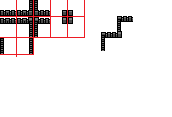
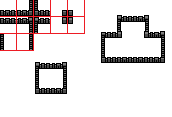
diagonal engagements and supports added to battle - reasonably stable

diff --git a/source/entities/unit_state.py b/source/entities/unit_state.py
@@ -1,4 +1,5 @@
 from ..battle.actions import *
+from random import choice
 
 
 class UnitState(object):
@@ -28,12 +29,60 @@ class UnitState(object):
         self.engagements = None
 
     def check_melee_target(self, troop):
+
+        impedeing = self.check_impedeing_target(troop)
+        if impedeing is not None:
+            return impedeing, 'orth'
+
+        diagonal = self.check_diagonal_target(troop)
+
+        return diagonal, 'diag'
+
+    def check_impedeing_target(self, troop):
         row = troop.location
         target_coord = self.get_impeding_coord(troop, row)
         for t in row.troops:
             if t.coord.get == target_coord and t.side != troop.side:
                 return t
         return None
+
+    def check_diagonal_target(self, troop):
+        if troop.type == 'chariot':
+            return None
+
+        adj_rows = self.battlefield.get_adj_rows(troop.location.field_y)
+        targets = []
+        for row in adj_rows:
+            target_coord = self.get_impeding_coord(troop, row)
+            for target in row.troops:
+                if target.coord.get == target_coord and target.side != troop.side:
+                    targets.append(target)
+
+        if not targets:
+            return None
+        if len(targets) == 1:
+            return targets[0]
+
+        return self.get_preferred_target(targets)
+
+    @staticmethod
+    def get_preferred_target(targets):
+
+        engaged = []
+        supporting = []
+        free = []
+
+        for t in targets:
+            if t.state.name == 'engage':
+                engaged.append(t)
+            elif t.state.name == 'support':
+                supporting.append(t)
+            else:
+                free.append(t)
+
+        for l in [free, supporting, engaged]:
+            if l:  # list has members
+                return choice(l)
 
     def check_range_target(self, troop):
         fire_range = troop.get_fire_range()
@@ -49,7 +98,8 @@ class UnitState(object):
                 pass
         return None
 
-    def get_impeding_coord(self, troop, row):
+    @staticmethod
+    def get_impeding_coord(troop, row):
         d = troop.advance_dir_mod
         cx, cy = troop.coord.get
         ry = row.field_y
@@ -70,13 +120,16 @@ class UnitState(object):
 
     def get_melee_action(self, troop):
 
-        target = self.check_melee_target(troop)
+        target, direction = self.check_melee_target(troop)
         if target is not None:
             if target.state.moving:
-                troop.harry(target)
-                troop.change_state('harry')
+                if direction == 'orth':
+                    troop.harry(target)
+                    troop.change_state('harry')
+                elif direction == 'diag':
+                    pass  #TODO something for this state?
             else:
-                self.engagements.initiate_engagement(troop, target)
+                self.engagements.determine_engagement(troop, target, direction)
 
             return Melee(self.scheduler, troop, target)
         else:
@@ -147,14 +200,6 @@ class Harrying(UnitState):
         return Advance(self.scheduler, troop)
 
 
-class Supporting(UnitState):
-    def __init__(self):
-        UnitState.__init__(self, 'support')
-
-    def get_next_action(self, troop):
-        return None
-
-
 class Firing(UnitState):
     def __init__(self):
         UnitState.__init__(self, 'fire')
@@ -186,6 +231,12 @@ class Engaging(UnitState):
 
         target = self.engagements.get_opposing(troop)
         return Melee(self.scheduler, troop, target)
+
+
+class Supporting(Engaging):
+    def __init__(self):
+        Engaging.__init__(self)
+        self.name = 'support'
 
 
 class Holding(UnitState):

diff --git a/source/battle/engagement_manager.py b/source/battle/engagement_manager.py
@@ -29,6 +29,19 @@ class EngagementManager(object):
         self.battle = None
         del self.engagements[:]
 
+    def determine_engagement(self, attacker, defender, direction):
+
+        if defender.state.name == 'engage':
+            if direction == 'orth':
+                self.switch_engagement_direction(attacker, defender)
+            else:
+                self.support_engagement(attacker, defender)
+        elif defender.state.name == 'support':
+            self.break_support(defender)
+            self.initiate_engagement(attacker, defender)
+        else:
+            self.initiate_engagement(attacker, defender)
+
     def initiate_engagement(self, attacker, defender):
 
         new_engagement = Engagement(attacker, defender)
@@ -41,18 +54,42 @@ class EngagementManager(object):
     def deinitiate_engagement(self, engagement):
         self.engagements.remove(engagement)
         for t in engagement.involved_troops:
-            if t.state not in ('flee', 'rout'):
+            if t.state.name not in ('flee', 'rout'):
                 t.change_state('advance')
             del self.engagement_dict[t]
 
     def support_engagement(self, supporter, target):
         engagement = self.get_engagement(target)
         engagement.add_supporter(supporter)
+        self.engagement_dict[supporter] = engagement
+        supporter.change_state('support')
 
     def break_support(self, troop):  # when a troop supporting an engagement is engaged or forced to retreat
         engagement = self.get_engagement(troop)
         engagement.remove_supporter(troop)
+        if troop.state.name not in ('flee', 'rout'):
+            troop.change_state('advance')
         del self.engagement_dict[troop]
+        # TODO does harrying / firing have any effect on supporters?
+
+    def switch_engagement_direction(self, attacker, defender):
+        diagonal_engagement = self.get_engagement(defender)
+
+
+        involved_troops = diagonal_engagement.involved_troops[:]
+        self.deinitiate_engagement(diagonal_engagement)
+
+        self.initiate_engagement(attacker, defender)
+        for t in (attacker, defender):
+            if t in involved_troops:
+                involved_troops.remove(t)
+
+        while involved_troops:
+            t = involved_troops[0]
+            action = t.state.get_melee_action(t)
+            if action is None:
+                print '********************** is this ok?'
+            involved_troops.remove(t)
 
     def get_engagement(self, troop):
         return self.engagement_dict[troop]

diff --git a/source/battle/phases/action_phase.py b/source/battle/phases/action_phase.py
@@ -34,8 +34,7 @@ class ActionPhase(battle_phase.BattlePhase):
     def end_phase_effects(self):
         print 'end of action phase'
         self.tick = 0
-        if not self.owner.engagements.engagements:
-            self.engage_all()
+        self.engage_all()
 
     def get_next_phase(self):
         if self.owner.engagements.engagements:
@@ -47,11 +46,17 @@ class ActionPhase(battle_phase.BattlePhase):
 
     def engage_all(self):
         for troop in self.owner.battle.left_army.troops:
-            if troop.state.name not in ('flee', 'rout'):
-                target = troop.state.check_melee_target(troop)
-                if target is not None:
-                    # TODO need to find way to get supports to work here
-                    self.owner.engagements.initiate_engagement(troop, target)
+            if troop.state.name not in ('flee', 'rout', 'engage', 'support'):
+                self.check_melee(troop)
+        for troop in self.owner.battle.right_army.troops:
+            if troop.state.name not in ('flee', 'rout', 'engage', 'support'):
+                self.check_melee(troop)
+
+    def check_melee(self, troop):
+
+        target, direction = troop.state.check_melee_target(troop)
+        if target is not None:
+            troop.state.engagements.determine_engagement(troop, target, direction)
 
     def assign_engagement_actions(self):
         for engagement in self.owner.engagements.engagements:
@@ -62,5 +67,10 @@ class ActionPhase(battle_phase.BattlePhase):
 
         actions = [EngagementMelee(self.owner, e.attacker, e.defender),
                    EngagementMelee(self.owner, e.defender, e.attacker)]
+        # add support melees
+        for t in e.attack_supporters:
+            actions.append(EngagementMelee(self.owner, t, e.defender))
+        for t in e.defence_supporters:
+            actions.append(EngagementMelee(self.owner, t, e.attacker))
 
         return actions

diff --git a/batdemo.py b/batdemo.py
@@ -2,6 +2,7 @@ import os
 import pygame
 from pygame.locals import *
 from source.constants import *
+from tools.rand_dist import *
 
 import source.battle.battle as battle
 
@@ -13,8 +14,11 @@ pygame.init()
 os.environ['SDL_VIDEO_CENTERED'] = "TRUE"
 screen = pygame.display.set_mode((SCREENW, SCREENH))
 
-red = Army('a', RED, 3, 5, 2)
-blue = Army('b', YELLOW, 4, 4, 0)
+i, a, c = rand_dist()
+red = Army('a', RED, i, a, c)
+
+i, a, c = rand_dist()
+blue = Army('b', YELLOW, i, a, c)
 
 b = battle.Battle('s', red, blue)
 
@@ -38,7 +42,7 @@ while True:
     b.run()
     if b.scheduler.phase.name == 'end':
         handle_input(b.scheduler.phase)
-        pass
+        #b.scheduler.phase.end_phase()
 
     pygame.display.update()
     clock.tick(60)

diff --git a/source/entities/troop.py b/source/entities/troop.py
@@ -292,13 +292,14 @@ class Archer(Troop):
     def fire(self, target):
         hits = self.roll_engagement_dice(target, self.fire_strength)
         self.apply_hits(target, hits)
-        if target.state.name != 'engage':
+        # TODO - should firing cause supporters to break in battle?
+        if target.state.name not in ('engage', 'support'):
             target.check()
 
 
 class Chariot(Troop):
 
-    coh = 7
+    coh = 10
     mor = 10
     speed = 5
     str = 'archer'

diff --git a/tools/rand_dist.py b/tools/rand_dist.py
@@ -1,0 +1,23 @@
+from random import *
+
+
+def rand_dist():
+    answer = []
+    a = randint(1, 10)
+    print a
+    answer.append(a)
+    if a == 10:
+        answer.append(0)
+        answer.append(0)
+    else:
+        b = randint(1, 10-a)
+        print b
+        answer.append(b)
+        if b+a == 10:
+            answer.append(0)
+        else:
+            c = 10 - (a + b)
+            print c
+            answer.append(c)
+    shuffle(answer)
+    return answer

diff --git a/source/battle/actions.py b/source/battle/actions.py
@@ -212,6 +212,7 @@ class Melee(Action):
         i = 0
         for mod in cls.seq:
             animation['x'][i + bump] = mod
+            animation['y'][i + bump] = mod
             i += 1
 
     def get_animation_mod(self, axis):
